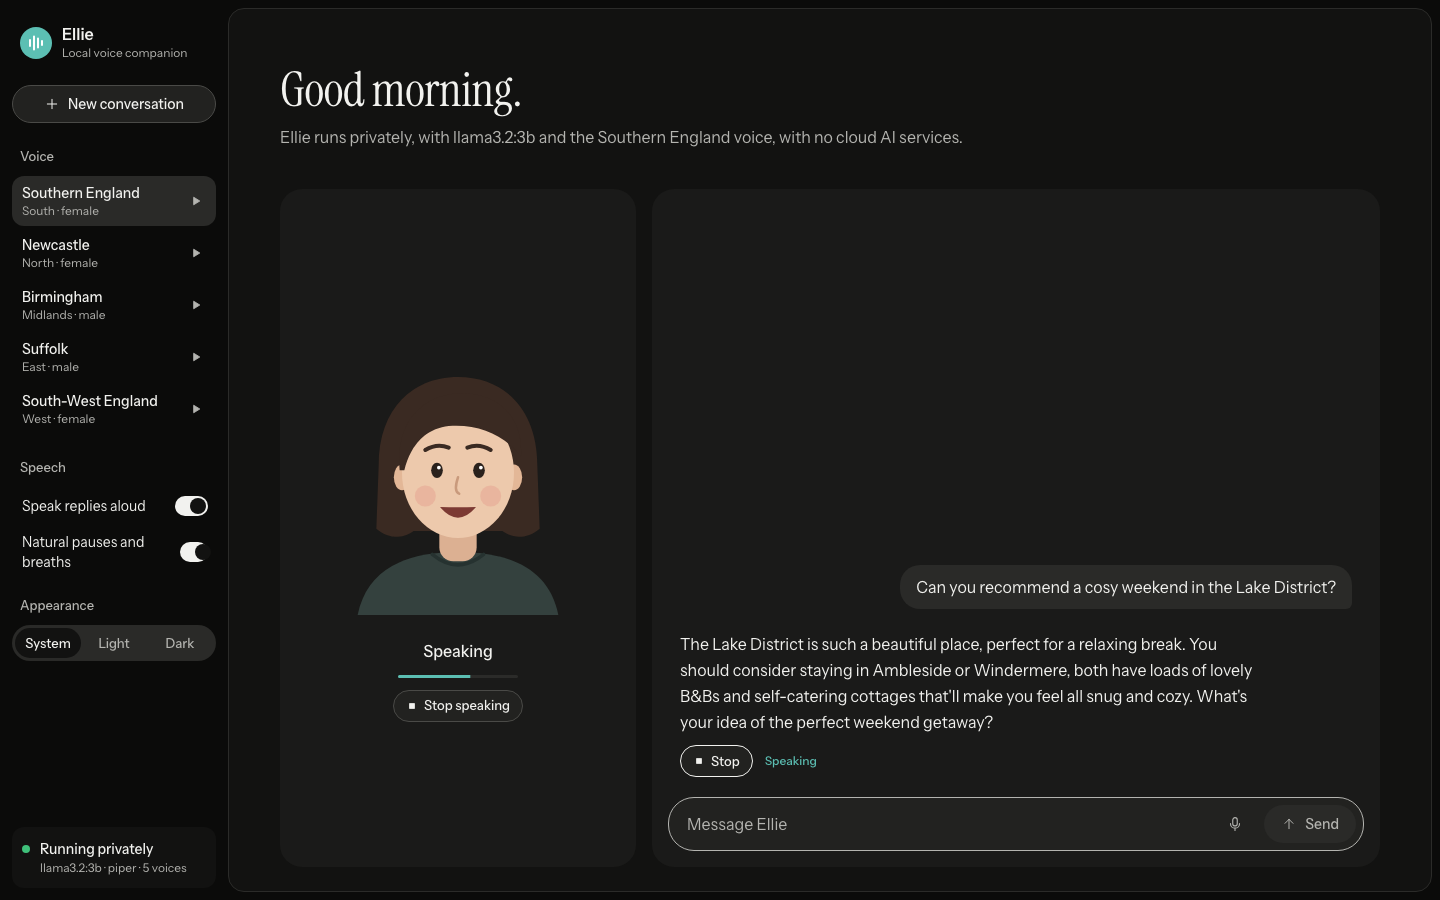
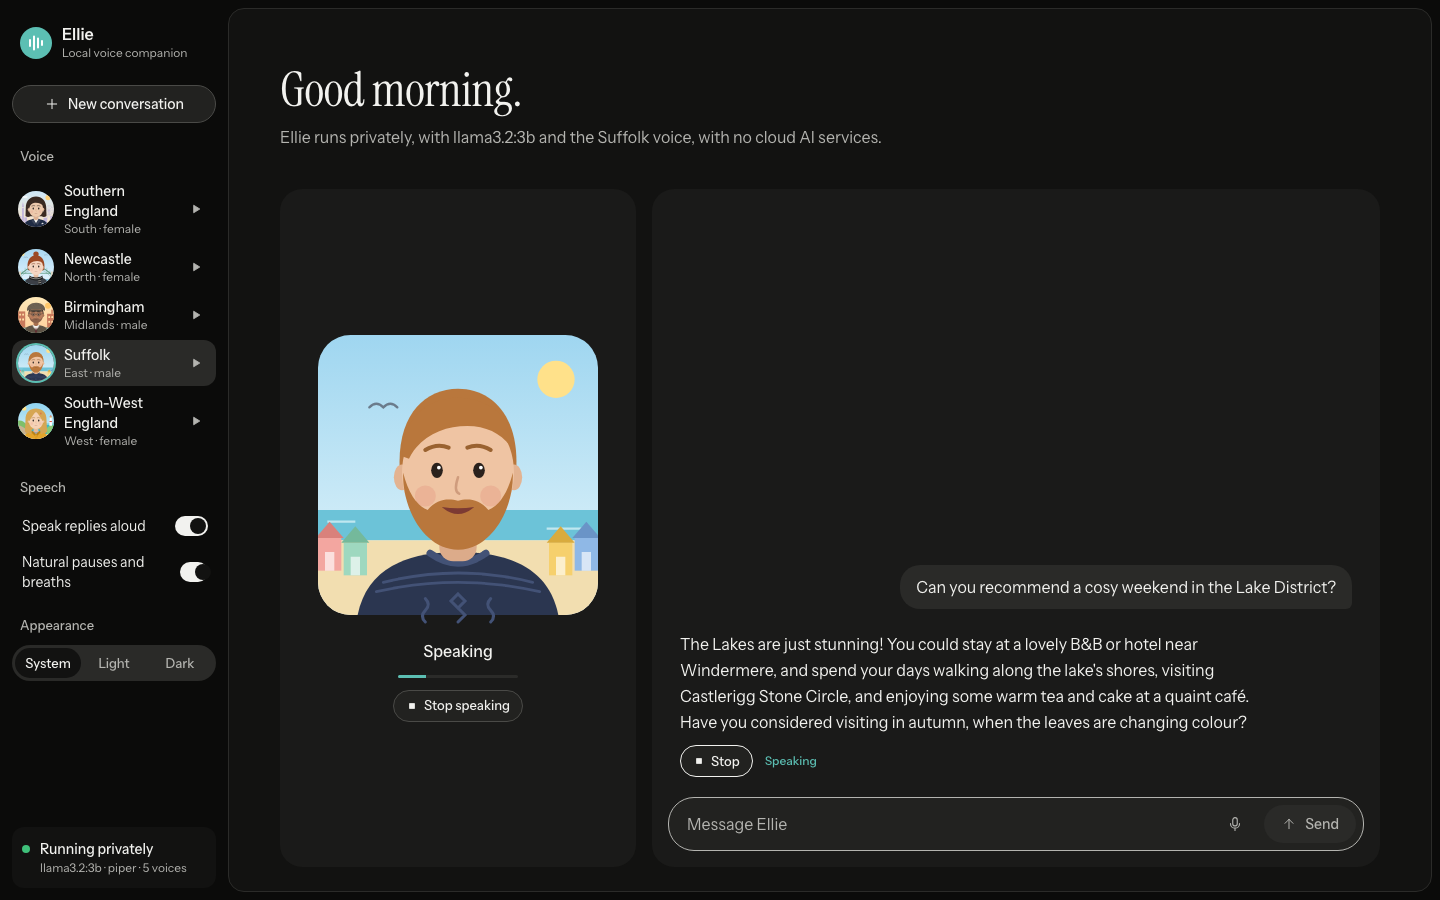
Sunny regional scenes behind each character; fresh README screenshots
London (Big Ben, the London Eye), the Tyne Bridge, a Birmingham canal with a narrowboat,
Suffolk beach huts, and a Cornish cove with a lighthouse. Soft colours so the face stays the
focus; the scene stays still while the character speaks. The voice list shows them too.

diff --git a/frontend/src/app/ui/avatar.html b/frontend/src/app/ui/avatar.html
@@ -2,7 +2,97 @@
      [attr.aria-label]="still() ? null : label()" [attr.aria-hidden]="still() || null">
   <defs>
     <clipPath [attr.id]="faceClip"><ellipse cx="120" cy="118" rx="48" ry="56" /></clipPath>
+    <clipPath [attr.id]="faceClip + '-card'"><rect width="240" height="240" rx="28" /></clipPath>
+    <linearGradient [attr.id]="faceClip + '-sky'" x1="0" y1="0" x2="0" y2="1">
+      <stop offset="0" [attr.stop-color]="look().sky[0]" />
+      <stop offset="1" [attr.stop-color]="look().sky[1]" />
+    </linearGradient>
   </defs>
+
+  <!-- a sunny scene from the character's region, behind them -->
+  <g class="scene" [attr.clip-path]="'url(#' + faceClip + '-card)'">
+    <rect width="240" height="240" [attr.fill]="'url(#' + faceClip + '-sky)'" />
+    @switch (look().scene) {
+      @case ('london') {
+        <circle cx="200" cy="44" r="17" fill="#ffd27a" />
+        <ellipse cx="44" cy="40" rx="20" ry="7" fill="#fff" opacity="0.8" />
+        <ellipse cx="170" cy="78" rx="16" ry="5" fill="#fff" opacity="0.7" />
+        <g fill="#c4b8dc">
+          <path d="M27 96 L33 74 L39 96 Z" />
+          <rect x="26.5" y="96" width="13" height="144" />
+          <rect x="0" y="168" width="22" height="72" />
+          <rect x="42" y="176" width="18" height="64" />
+          <rect x="170" y="178" width="24" height="62" />
+          <rect x="216" y="166" width="24" height="74" />
+        </g>
+        <circle cx="33" cy="110" r="4.5" fill="#fff4de" />
+        <g fill="none" stroke="#c4b8dc" stroke-width="2.5">
+          <circle cx="206" cy="128" r="30" />
+          <path d="M206 98 V158 M176 128 H236 M185 107 L227 149 M227 107 L185 149 M206 128 L192 196 M206 128 L220 196" />
+        </g>
+      }
+      @case ('tyne') {
+        <circle cx="30" cy="32" r="14" fill="#ffe08a" />
+        <rect y="200" width="240" height="40" fill="#8cc6dc" />
+        <path d="M14 214 h30 M170 222 h34 M196 210 h26" stroke="#c8e8f2" stroke-width="2" />
+        <g fill="none" stroke="#5f9a82" stroke-linecap="round">
+          <path d="M-10 200 Q120 36 250 200" stroke-width="7" />
+          <path d="M6 200 Q120 62 234 200" stroke-width="2.5" />
+          <path d="M0 162 H240" stroke-width="5" />
+          <path d="M28 162 V146 M48 162 V128 M192 162 V128 M212 162 V146" stroke-width="2" />
+        </g>
+        <rect x="6" y="150" width="14" height="56" fill="#ddd5c3" />
+        <rect x="220" y="150" width="14" height="56" fill="#ddd5c3" />
+        <path d="M40 56 q6 -6 12 0 q6 -6 12 0 M176 40 q5 -5 10 0 q5 -5 10 0" fill="none" stroke="#6b7c8c" stroke-width="2" stroke-linecap="round" />
+      }
+      @case ('canal') {
+        <circle cx="200" cy="58" r="20" fill="#ffc76a" />
+        <g fill="#c97a5c">
+          <rect x="0" y="96" width="48" height="144" />
+          <rect x="194" y="112" width="46" height="128" />
+          <rect x="222" y="84" width="10" height="28" />
+        </g>
+        <g fill="#ffe2a8">
+          <path d="M8 124 v-8 a6 6 0 0 1 12 0 v8 Z M28 124 v-8 a6 6 0 0 1 12 0 v8 Z M8 156 v-8 a6 6 0 0 1 12 0 v8 Z M28 156 v-8 a6 6 0 0 1 12 0 v8 Z" />
+          <path d="M202 140 v-8 a6 6 0 0 1 12 0 v8 Z M222 140 v-8 a6 6 0 0 1 12 0 v8 Z M202 172 v-8 a6 6 0 0 1 12 0 v8 Z M222 172 v-8 a6 6 0 0 1 12 0 v8 Z" />
+        </g>
+        <rect y="200" width="240" height="6" fill="#a88a6a" />
+        <rect y="206" width="240" height="34" fill="#7fb6b1" />
+        <path d="M10 226 h18 M200 232 h26" stroke="#b9dcd8" stroke-width="2" />
+        <rect x="-4" y="198" width="36" height="10" fill="#c0453a" />
+        <rect x="-8" y="208" width="46" height="8" rx="2" fill="#2f6150" />
+        <circle cx="8" cy="203" r="2.4" fill="#ffd86b" /><circle cx="20" cy="203" r="2.4" fill="#ffd86b" />
+      }
+      @case ('beach-huts') {
+        <circle cx="204" cy="38" r="16" fill="#ffe18a" />
+        <rect y="150" width="240" height="26" fill="#6cc3d8" />
+        <path d="M8 160 h24 M196 166 h30" stroke="#bfe7f0" stroke-width="2" />
+        <rect y="176" width="240" height="64" fill="#f2deb0" />
+        <g>
+          <rect x="0" y="174" width="20" height="28" fill="#f3a6a0" /><path d="M-2 174 L10 160 L22 174 Z" fill="#d9817b" />
+          <rect x="22" y="178" width="20" height="28" fill="#9ed8bf" /><path d="M20 178 L32 164 L44 178 Z" fill="#74b99b" />
+          <rect x="198" y="178" width="20" height="28" fill="#f6d06d" /><path d="M196 178 L208 164 L220 178 Z" fill="#d9ab3e" />
+          <rect x="220" y="174" width="20" height="28" fill="#8fb8e6" /><path d="M218 174 L230 160 L242 174 Z" fill="#6a94c7" />
+          <path d="M6 186 h8 v16 h-8 Z M28 190 h8 v16 h-8 Z M204 190 h8 v16 h-8 Z M226 186 h8 v16 h-8 Z" fill="#fff" opacity="0.65" />
+        </g>
+        <path d="M44 62 q6 -6 12 0 q6 -6 12 0" fill="none" stroke="#6b7c8c" stroke-width="2" stroke-linecap="round" />
+      }
+      @case ('cove') {
+        <circle cx="40" cy="36" r="16" fill="#ffe18a" />
+        <rect y="138" width="240" height="70" fill="#3fb8c6" />
+        <rect y="138" width="240" height="8" fill="#86d8de" />
+        <path d="M0 118 C22 114 42 124 54 142 L62 240 L0 240 Z" fill="#7fbf6a" />
+        <path d="M0 150 C20 150 40 160 56 180 L60 240 L0 240 Z" fill="#c8b393" />
+        <path d="M240 150 C220 146 200 156 192 172 L192 240 L240 240 Z" fill="#8cc976" />
+        <path d="M212 98 H224 L227 152 H209 Z" fill="#fff" />
+        <rect x="210" y="120" width="16" height="7" fill="#e05a4a" />
+        <rect x="211" y="90" width="14" height="8" fill="#ffd66b" />
+        <path d="M209 90 L218 81 L227 90 Z" fill="#e05a4a" />
+        <rect y="208" width="240" height="32" fill="#f4e2b8" />
+        <path d="M70 160 h22 M150 176 h26" stroke="#bdeef0" stroke-width="2" />
+      }
+    }
+  </g>
   <g class="head">
     <!-- clothes -->
     <path class="top" d="M34 240 C42 200 76 186 120 186 C164 186 198 200 206 240 Z" />

diff --git a/frontend/src/app/ui/looks.ts b/frontend/src/app/ui/looks.ts
@@ -14,6 +14,9 @@ export interface Look {
   earrings?: 'pearls' | 'hoops';
   /** A starfish hair clip. */
   clip?: boolean;
+  /** A sunny scene from the region behind them, and its sky (top, bottom). */
+  scene: 'london' | 'tyne' | 'canal' | 'beach-huts' | 'cove';
+  sky: [string, string];
   colours: {
     skin: string;
     ear: string;
@@ -38,6 +41,8 @@ export const LOOKS: Record<string, Look> = {
     hair: 'bob',
     outfit: 'blazer',
     earrings: 'pearls',
+    scene: 'london',
+    sky: ['#cfe8f7', '#ffe4c6'],
     colours: {
       skin: '#edc9ac', ear: '#e3b797', neck: '#dcb092', hair: '#3a2a22', brow: '#3a2a22',
       top: '#1f2b44', trim: '#16203a', cheek: '#e59a8a', nose: '#c99a7c', lips: '#7c3a33',
@@ -50,6 +55,8 @@ export const LOOKS: Record<string, Look> = {
     hair: 'bun',
     outfit: 'scarf',
     freckles: true,
+    scene: 'tyne',
+    sky: ['#a9d8f2', '#eaf7ff'],
     colours: {
       skin: '#f4d6c2', ear: '#ebc5ac', neck: '#e4bea3', hair: '#9c4a26', brow: '#7a3a1f',
       top: '#3b3f46', trim: '#2a2d33', cheek: '#ec9f92', nose: '#d3a58a', lips: '#86413a',
@@ -63,18 +70,22 @@ export const LOOKS: Record<string, Look> = {
     outfit: 'waistcoat',
     beard: 'stubble',
     glasses: true,
+    scene: 'canal',
+    sky: ['#ffe9b8', '#ffcf9c'],
     colours: {
       skin: '#b98260', ear: '#aa7453', neck: '#a46e4e', hair: '#1d1716', brow: '#1d1716',
       top: '#5e5345', trim: '#6d2430', cheek: '#b8624f', nose: '#8f5c3d', lips: '#5e2a25',
     },
   },
-  // Suffolk: the coast (Lowestoft, Aldeburgh). Sandy hair and beard, and a navy fisherman's gansey
+  // Suffolk: the coast (Lowestoft, Southwold's beach huts). Sandy hair and beard, and a navy fisherman's gansey
   // with a ribbed neck, ridged yoke and cables.
   'uk-east': {
     description: "a man with sandy hair, a full beard and a navy fisherman's gansey",
     hair: 'short',
     outfit: 'gansey',
     beard: 'full',
+    scene: 'beach-huts',
+    sky: ['#9fd6f0', '#e6f6fb'],
     colours: {
       skin: '#efc4a3', ear: '#e3b391', neck: '#dcab8a', hair: '#b9773c', brow: '#9a6230',
       top: '#2b3650', trim: '#435276', cheek: '#e59a86', nose: '#cf9c7d', lips: '#7c3a33',
@@ -89,6 +100,8 @@ export const LOOKS: Record<string, Look> = {
     freckles: true,
     earrings: 'hoops',
     clip: true,
+    scene: 'cove',
+    sky: ['#8fd3f0', '#e0f5fb'],
     colours: {
       skin: '#f5d2b6', ear: '#ebc2a4', neck: '#e5bb9c', hair: '#d6a654', brow: '#a8793a',
       top: '#e3a52a', trim: '#b9831a', cheek: '#ef9f8c', nose: '#d8a789', lips: '#86413a',

diff --git a/frontend/src/app/ui/looks.spec.ts b/frontend/src/app/ui/looks.spec.ts
@@ -6,6 +6,7 @@ describe('looks', () => {
     const looks = ids.map((id) => lookFor(id));
     expect(new Set(looks.map((l) => `${l.hair}/${l.outfit}`)).size).toBe(5);
     expect(new Set(looks.map((l) => l.description)).size).toBe(5);
+    expect(new Set(looks.map((l) => l.scene)).size).toBe(5);
   });
 
   it('falls back sensibly for voices without a look of their own', () => {

diff --git a/README.md b/README.md
@@ -51,6 +51,12 @@ to it. No cloud AI service is used at any step.
 **Beyond the brief**
 - **Five regional English voices**: Southern England, Newcastle, Birmingham, Suffolk and
   South-West England, each with a ▶ preview.
+- **A character for each voice**, dressed in a nod to its region and set against a sunny local
+  scene: a navy blazer by the London Eye, a striped scarf under the Tyne Bridge, a flat cap and
+  waistcoat on a Birmingham canal, a fisherman's jumper by Suffolk beach huts, a yellow oilskin in
+  a Cornish cove.
+- **Eyes that watch you**: while quiet, the avatar follows your pointer and your typing; while
+  speaking, it looks straight at you.
 - **Natural pauses and breaths** between sentences, sized like a person's (switchable).
 - **🎤 Push-to-talk voice input** with local Whisper: what you say is written into the box for you
   to check before sending.
